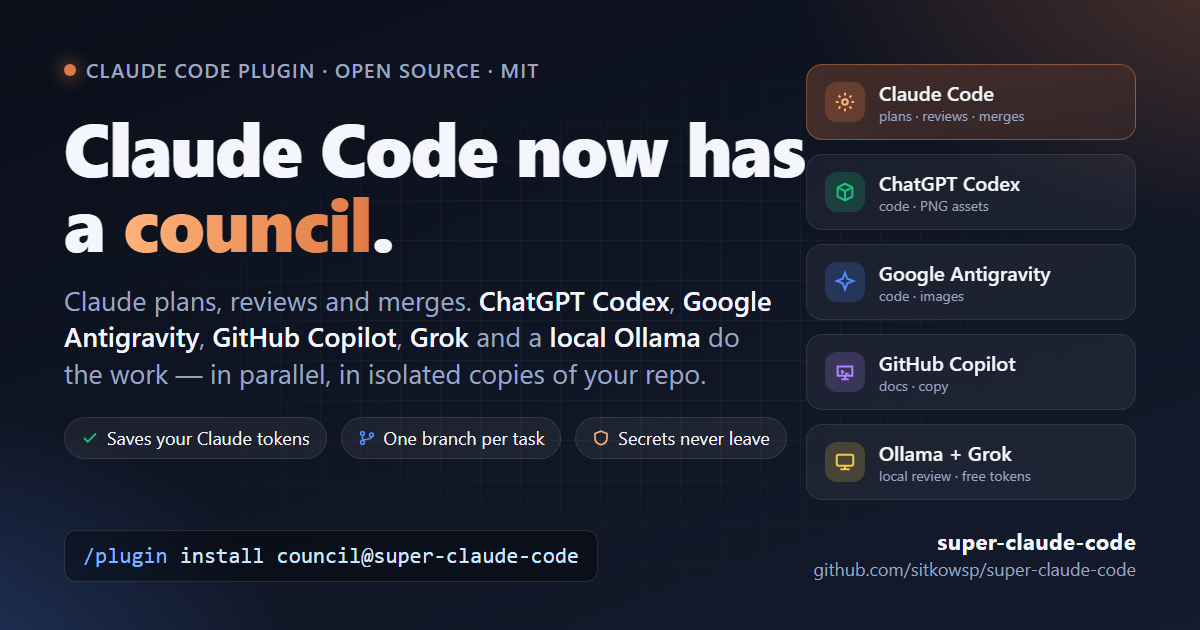
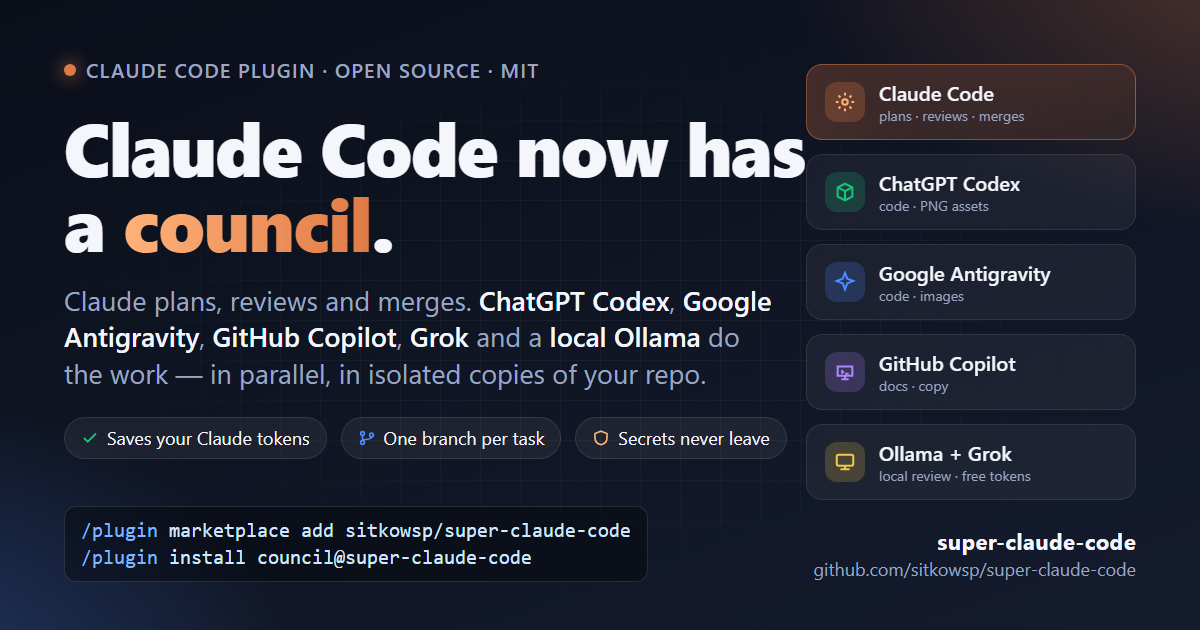
council: T-001 progress 55%

Changed region(s): [[0.0617, 0.8143, 0.5242, 0.9048]]

diff --git a/docs/social/graphic-square.html b/docs/social/graphic-square.html
@@ -36,9 +36,9 @@
   .perk{display:inline-flex;align-items:center;gap:8px;font-size:20px;
     background:rgba(255,255,255,.06);border:1px solid rgba(255,255,255,.1);border-radius:999px;padding:9px 16px}
   .perk svg{width:22px;height:22px}
-  .foot{position:absolute;left:72px;right:72px;bottom:56px;display:flex;justify-content:space-between;align-items:flex-end}
+  .foot{position:absolute;left:72px;right:72px;bottom:24px;display:flex;flex-direction:column;align-items:flex-end;gap:12px}
   .cmd{font-family:Consolas,"Cascadia Mono",monospace;font-size:24px;color:#cfe7ff;background:rgba(0,0,0,.35);
-    border:1px solid rgba(255,255,255,.12);border-radius:12px;padding:14px 20px}
+    border:1px solid rgba(255,255,255,.12);border-radius:12px;padding:14px 20px;align-self:flex-start}
   .cmd span{color:#7fb4ff}
   .brand{text-align:right;color:var(--muted);font-size:19px;line-height:1.4}
   .brand b{color:var(--ink);font-size:24px}
@@ -67,7 +67,10 @@
   </div>
 
   <div class="foot">
-    <div class="cmd"><span>/plugin</span> install council@super-claude-code</div>
+    <div class="cmd">
+      <div><span>/plugin</span> marketplace add sitkowsp/super-claude-code</div>
+      <div><span>/plugin</span> install council@super-claude-code</div>
+    </div>
     <div class="brand"><b>super-claude-code</b><br>github.com/sitkowsp/super-claude-code</div>
   </div>
 </div>
